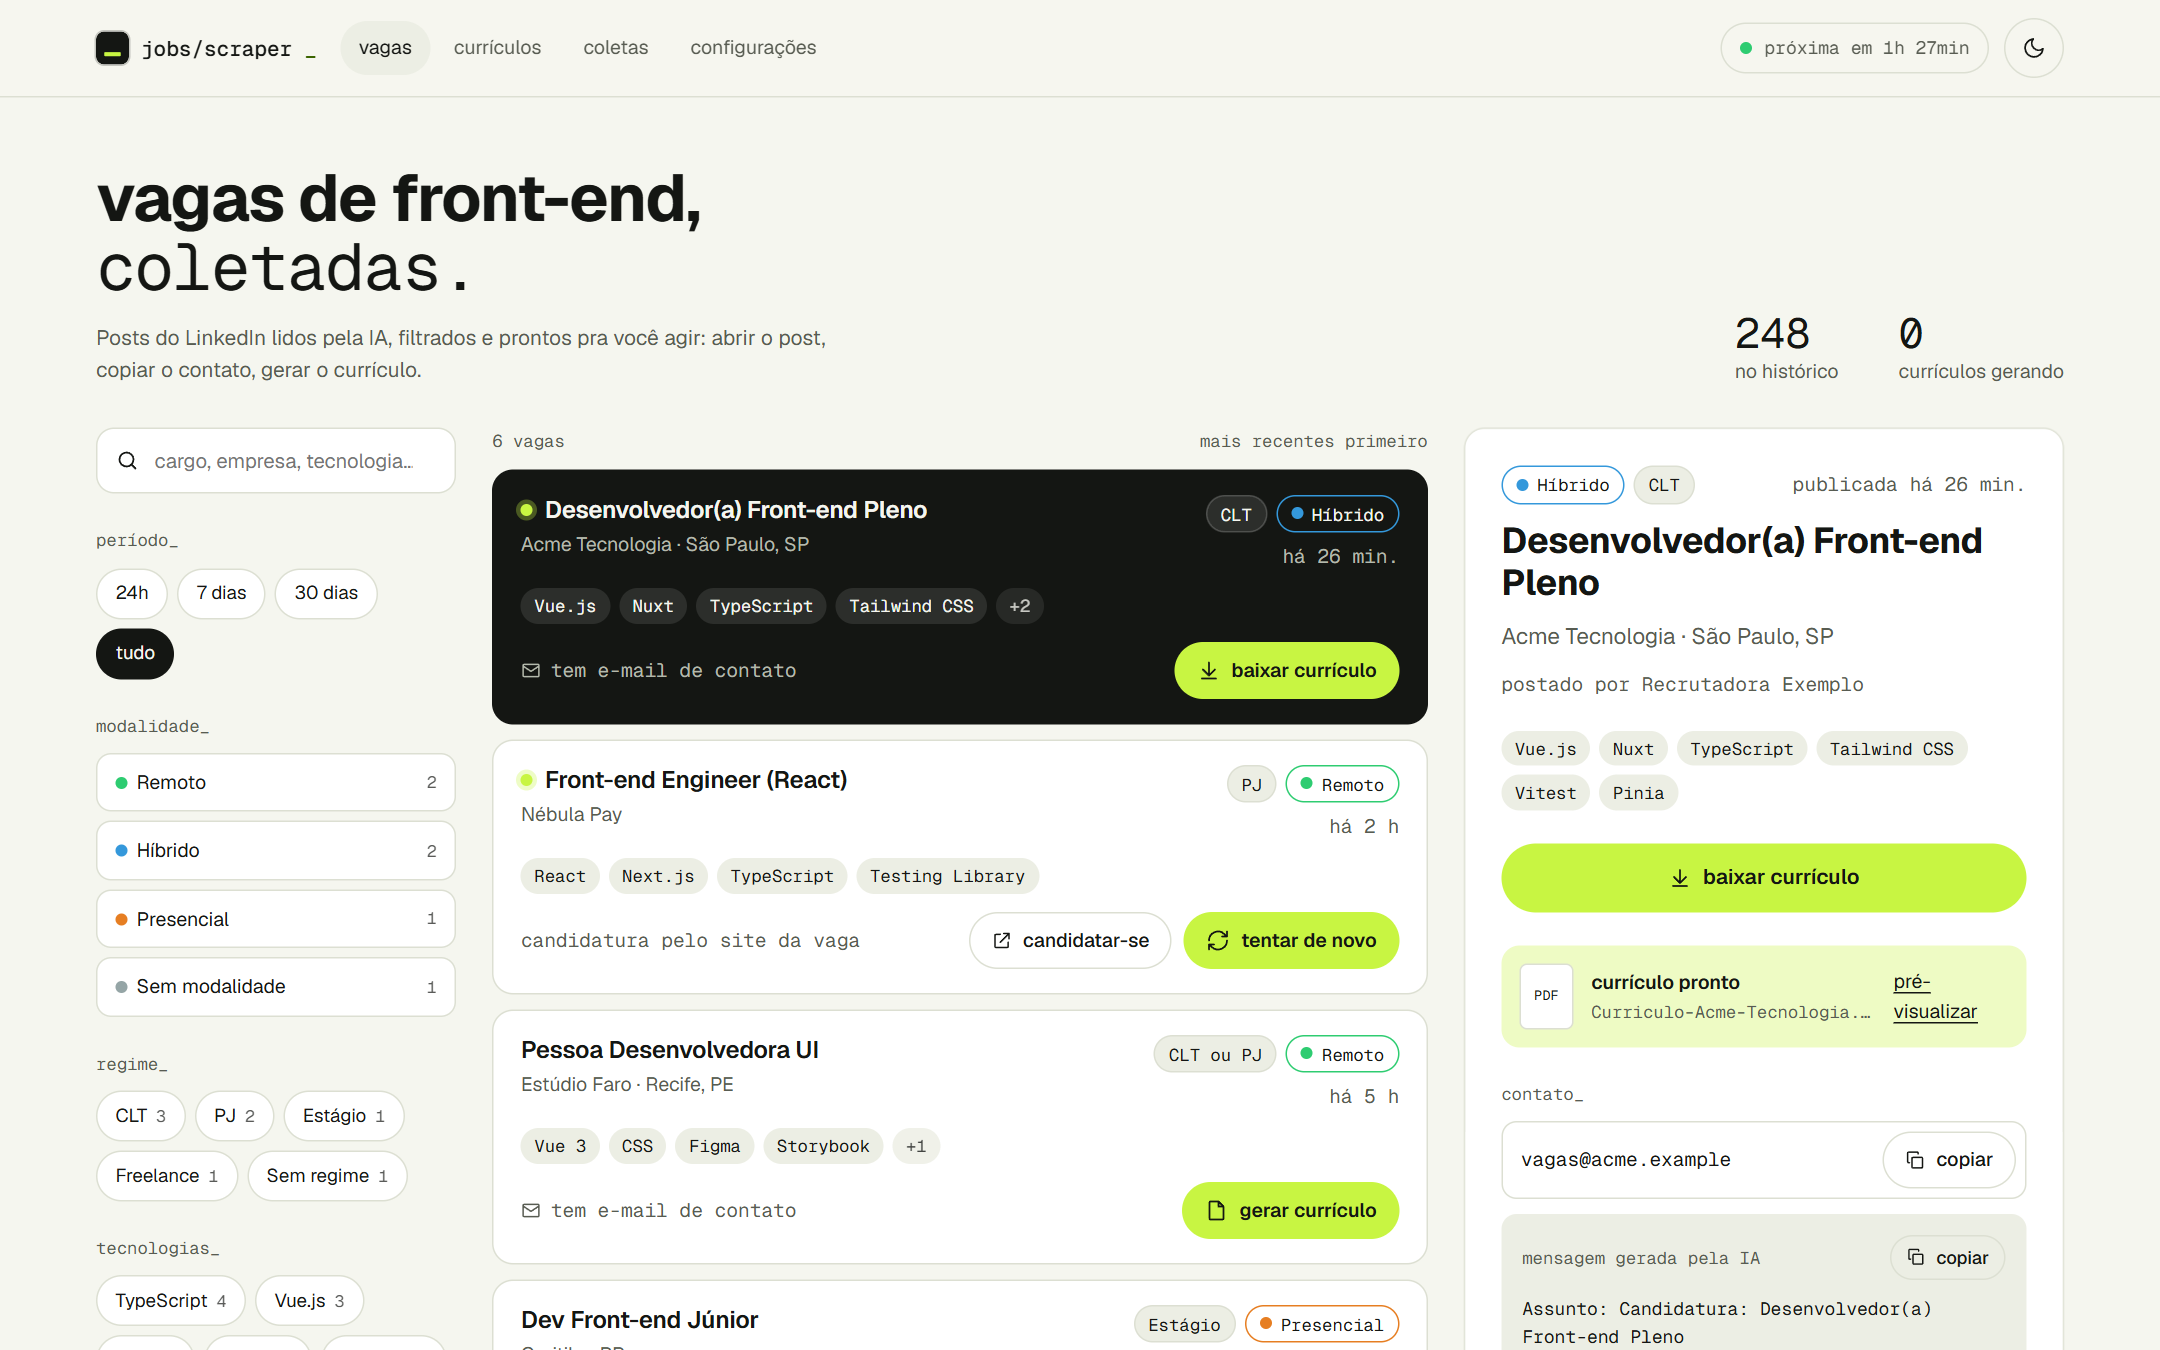
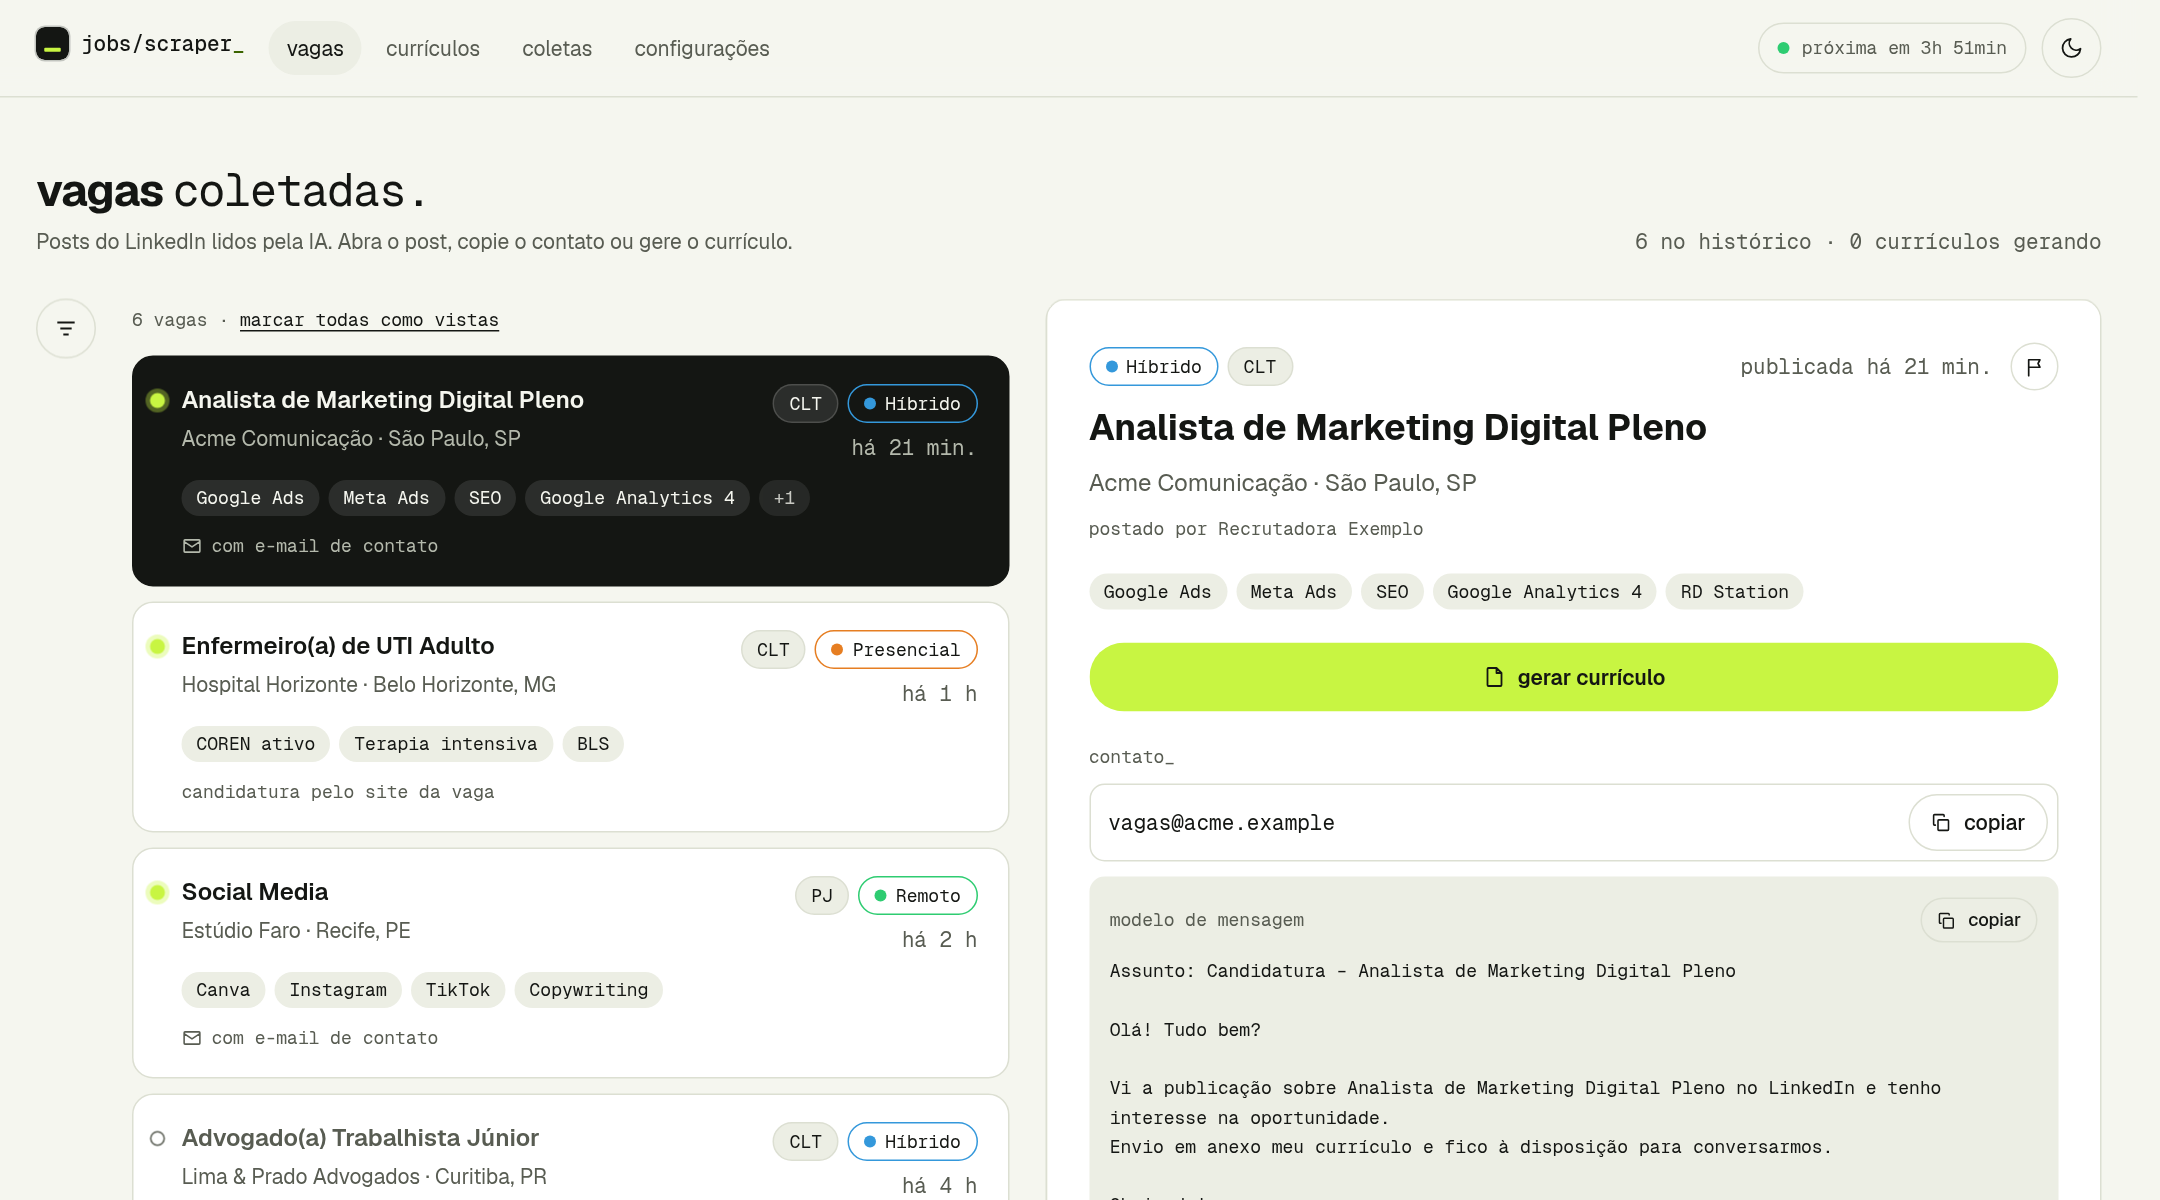
README para quem não é dev, .env.example com a infraestrutura no topo e scraper contínuo por padrão

diff --git a/README.md b/README.md
@@ -2,17 +2,88 @@
 
 Coleta posts de vagas no LinkedIn, estrutura cada um com IA local (Ollama) e publica as vagas num canal do Discord e num site próprio. Em qualquer vaga, gera um currículo em PDF ajustado para ela.
 
+Serve para qualquer área: enfermagem, marketing, direito, vendas, engenharia, tecnologia... Você informa a sua área e o cargo que procura, e o site sugere os termos de busca e monta o currículo base com você.
+
 ![Lista de vagas do site, com filtros, cards e o detalhe da vaga ao lado](docs/screenshot.png)
 
 ## 📑 Sumário
 
+- [🙋 Para quem não é dev](#para-quem-nao-e-dev)
 - [🗺 Como funciona](#como-funciona)
 - [🧩 Serviços](#servicos)
 - [🛠 Tecnologias](#tecnologias)
-- [🏃♂ Como rodar](#como-rodar)
+- [🏃♂ Como rodar (para devs)](#como-rodar)
 - [🧰 Scripts](#scripts)
 - [⚠ Observações](#observacoes)
 - [🤝 Contribuindo](#contribuindo)
+
+<a id="para-quem-nao-e-dev"></a>
+
+## 🙋 Para quem não é dev
+
+Tudo roda no seu computador, dentro do **Docker**: o banco, a IA, o site e o robô que lê o LinkedIn. Você instala um programa, baixa o projeto, roda um comando e faz o resto pelo site.
+
+Você vai precisar de:
+
+- um computador com Windows 10/11, macOS ou Linux, com pelo menos **8 GB de RAM** (16 GB é mais confortável) e **25 GB livres** no disco (a instalação ocupa uns 17 GB, quase tudo da IA);
+- uma conta no LinkedIn. De preferência, uma criada só para isso: veja as [observações](#observacoes).
+
+### 1. Instale o Docker Desktop
+
+- **Windows:** [Docker Desktop para Windows](https://docs.docker.com/desktop/setup/install/windows-install/). Durante a instalação, deixe marcado "Use WSL 2", e reinicie o computador se ele pedir.
+- **macOS:** [Docker Desktop para Mac](https://docs.docker.com/desktop/setup/install/mac-install/). Escolha a versão do seu processador (Apple Silicon, nos Macs M1 em diante, ou Intel).
+- **Linux:** [Docker Desktop para Linux](https://docs.docker.com/desktop/setup/install/linux/) ou, se preferir, o [Docker Engine](https://docs.docker.com/engine/install/).
+
+Abra o Docker Desktop e espere ele dizer que está rodando ("Engine running"). Ele precisa estar aberto sempre que você for usar o projeto.
+
+### 2. Baixe o projeto
+
+[Baixe o ZIP](https://github.com/P0sseid0n/jobs-scraper/archive/refs/heads/main.zip) e extraia numa pasta fácil de achar, como a Área de Trabalho. A pasta extraída se chama `jobs-scraper-main`.
+
+Se você tem o [Git](https://git-scm.com/downloads), pode clonar em vez de baixar o ZIP, o que facilita atualizar depois: `git clone https://github.com/P0sseid0n/jobs-scraper.git`.
+
+### 3. Abra um terminal na pasta do projeto
+
+- **Windows:** abra a pasta `jobs-scraper-main` no Explorador de Arquivos, clique com o botão direito num espaço vazio e escolha **Abrir no Terminal**.
+- **macOS:** abra o app **Terminal**, digite `cd ` (com o espaço), arraste a pasta para a janela e aperte Enter.
+- **Linux:** clique com o botão direito dentro da pasta e escolha **Abrir no terminal**.
+
+### 4. Crie o arquivo de configuração
+
+Copie o `.env.example` para `.env`. Não precisa abrir nem editar: o resto é feito pelo site.
+
+- **Windows:** `Copy-Item .env.example .env`
+- **macOS e Linux:** `cp .env.example .env`
+
+### 5. Suba tudo
+
+```bash
+docker compose --profile app up -d --build
+```
+
+Na primeira vez, o Docker baixa as imagens e o modelo de IA (uns 10 GB no total) e leva de 10 a 30 minutos, conforme a internet. Nas próximas, sobe em segundos. Espere o comando terminar antes de abrir o site: ele só termina depois que o modelo de IA foi baixado, e sem ele o site não consegue sugerir os termos de busca.
+
+### 6. Abra o site e siga o passo a passo
+
+Abra **http://localhost:3000** no navegador. Na primeira vez, o site abre o passo a passo de configuração:
+
+1. **Área:** a sua área, o cargo que você procura e a senioridade. A IA sugere os termos de busca e as palavras-chave, e você revisa.
+2. **LinkedIn:** o e-mail e a senha da conta. Ao salvar, o site testa o login. Se o LinkedIn pedir uma confirmação (aprovar no app do celular, um código ou um QR code), abre uma janela no site, em qualquer tela, para você resolver em até 3 minutos.
+3. **Currículo:** preencha o formulário (contato, experiência, formação, habilidades...) e veja a prévia do PDF. Quem já tem um currículo em LaTeX pode enviar o `.tex`.
+4. **Discord e GitHub:** opcionais, pode pular.
+5. **Revisão:** confira e clique em **fazer a primeira coleta**.
+
+As primeiras vagas aparecem no site em alguns minutos. Em qualquer vaga, **gerar currículo** cria um PDF ajustado para ela. Tudo o que você configurou fica editável em **Configurações**.
+
+### No dia a dia
+
+Rode os comandos no terminal, dentro da pasta do projeto, com o Docker Desktop aberto.
+
+- **Coletas:** enquanto o projeto está ligado, ele coleta sozinho a cada 4 horas (o intervalo muda em Configurações). Para coletar na hora, use **coletar agora**, na tela Coletas.
+- **Desligar:** `docker compose --profile app stop`. As vagas, os currículos e as configurações ficam guardados.
+- **Ligar de novo:** `docker compose --profile app up -d`.
+- **Atualizar:** baixe o ZIP de novo e extraia na mesma pasta, por cima (ou `git pull`, se clonou), e rode `docker compose --profile app up -d --build`.
+- **Algo deu errado:** `docker compose --profile app ps` mostra o que está rodando, e `docker compose --profile app logs -f web` (ou `scraper`, `cv-updater`...) mostra as mensagens de um serviço.
 
 <a id="como-funciona"></a>
 
@@ -67,7 +138,7 @@ Cada serviço tem um README com os detalhes.
 
 <a id="como-rodar"></a>
 
-## 🏃♂ Como rodar
+## 🏃♂ Como rodar (para devs)
 
 Pré-requisitos: [Bun](https://bun.sh) 1.4+ e Docker.
 
@@ -86,7 +157,7 @@ bun dev                   # todos os serviços, com hot reload
 - **Configurações:** termos de busca, filtros e intervalo são editados pelo site; o `.env` só preenche os valores iniciais (veja [shared](src/shared/README.md#configurações-em-tempo-de-execução)).
 - **Contas:** as credenciais do LinkedIn, do Discord e do GitHub podem ser informadas em Configurações › Contas, sem editar o `.env`; o que for salvo lá vale no lugar do `.env` (veja [shared](src/shared/README.md#credenciais)). Sem elas, os serviços sobem mesmo assim e esperam: o scraper não coleta, as vagas não vão para o Discord e o site diz o que falta.
 - **Tudo em containers:** `docker compose --profile app up -d --build`.
-- **Coleta única ou periódica:** por padrão o scraper coleta uma vez e encerra. Com `SCRAPER_INTERVAL_MINUTES` (ex.: `180`), ele fica rodando e coleta periodicamente.
+- **Coleta periódica ou única:** com o `.env.example`, o scraper fica rodando e coleta a cada `SCRAPER_INTERVAL_MINUTES` (240; depois, vale o intervalo editado pelo site). Com `SCRAPER_INTERVAL_MINUTES=0`, ele coleta uma vez e encerra.
 
 Painéis, todos só em `127.0.0.1`:
 

diff --git a/src/services/scraper/README.md b/src/services/scraper/README.md
@@ -10,7 +10,7 @@ Busca posts de vagas no LinkedIn com o Puppeteer e envia cada um para a fila `po
 - **Sem termos:** o `.env.example` e as configurações nascem sem termos de busca (o `.env` ou o onboarding do site preenchem). Sem nenhum termo ativo, o scraper não coleta: fica em espera, registra o motivo no log e volta a coletar quando um termo for ativado. A tela de Coletas mostra o que falta.
 - **Sem conta do LinkedIn:** o scraper sobe mesmo assim e fica em espera do mesmo jeito: sem conta no site nem no `.env`, não coleta, registra o motivo no log, e a tela de Coletas pede para conectar a conta. Ela é relida antes de cada coleta, então salvar a conta pelo site já inicia as coletas, sem reiniciar.
 - **O que conta no limite:** só os posts enviados para a IA. Posts já processados em coletas anteriores e posts em um idioma fora dos aceitos (`allowedLanguages` do post-processing) são pulados, e a busca continua rolando até completar o limite. Ela só para antes no fim dos resultados ou depois de 15 rolagens seguidas sem nenhum post enviado, para não rolar sem fim (cada rolagem espera os posts carregarem, então um termo assim leva alguns minutos).
-- **Coleta única ou periódica:** com `SCRAPER_INTERVAL_MINUTES=0` (padrão), o scraper coleta uma vez e encerra (sem termos de busca ativos ou sem conta do LinkedIn, antes espera a configuração ser salva pelo site, relendo a cada 30 segundos). Com um intervalo (ex.: `180`), ele fica rodando, coleta na agenda e relê as configurações a cada 30 segundos, sem reiniciar.
+- **Coleta periódica ou única:** com um intervalo (o `.env.example` traz `SCRAPER_INTERVAL_MINUTES=240`), o scraper fica rodando, coleta na agenda (o intervalo das configurações, editável pelo site), atende o "coletar agora" e relê as configurações a cada 30 segundos, sem reiniciar. Com `SCRAPER_INTERVAL_MINUTES=0` (ou sem a variável), ele coleta uma vez e encerra (sem termos de busca ativos ou sem conta do LinkedIn, antes espera a configuração ser salva pelo site, relendo a cada 30 segundos); no Docker, o container para e o "coletar agora" fica na fila até ele subir de novo.
 - **Coletar agora:** `bun scraper:run`, ou o botão no site, publica uma mensagem `ScraperCommand` na fila `scraper`. Funciona mesmo com as coletas pausadas.
 - **Histórico:** cada coleta fica em `scraper_runs` por 90 dias, com o status e os posts enviados por termo.
 
@@ -20,7 +20,7 @@ O post-processing divide os posts de agregadores ("📄 Cargo" + "🔗 Candidate
 
 ## Login e verificação
 
-A sessão fica salva em `data/scraper/linkedin-cookies.json` (no Docker, no volume `scraper_data`), então o login só é refeito quando ela expira. O site também pede um teste do login (onboarding e Configurações › Contas) pela fila `scraper-login-test`: o scraper abre o feed e faz o login se precisar. Com `HEADLESS=auto` (padrão), o navegador roda sem janela. Se o LinkedIn pedir uma verificação, ela também aparece no site (cada passo do login fica na coleção `linkedin_login`):
+A sessão fica salva em `data/scraper/linkedin-cookies.json` (no Docker, no volume `scraper_data`), então o login só é refeito quando ela expira. O site também pede um teste do login (onboarding e Configurações › Contas) pela fila `scraper-login-test`: o scraper abre o feed e faz o login se precisar. Com `HEADLESS=auto` (padrão), o navegador roda sem janela. Se o LinkedIn pedir uma verificação, ela abre numa modal do site, em qualquer tela (cada passo do login fica na coleção `linkedin_login`, com o prazo da espera em `expiresAt`):
 
 - **QR code:** aparece no site e no terminal (ou em `docker compose logs -f scraper`) para escanear com o app do LinkedIn.
 - **Código** (e-mail, SMS ou app autenticador): digite no site ou envie de outro terminal com `bun scraper:verify 123456`. Se estiver errado, envie outro.
